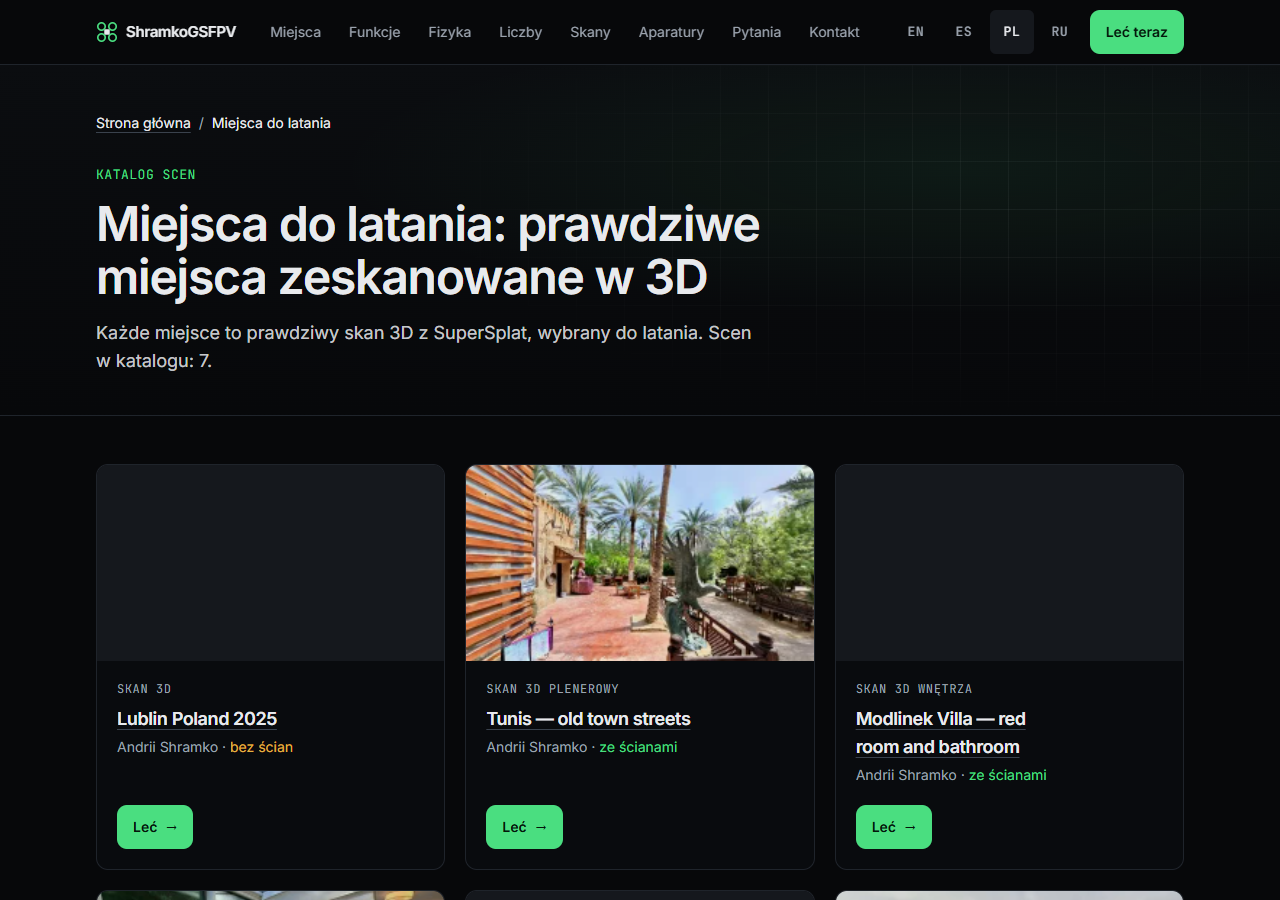
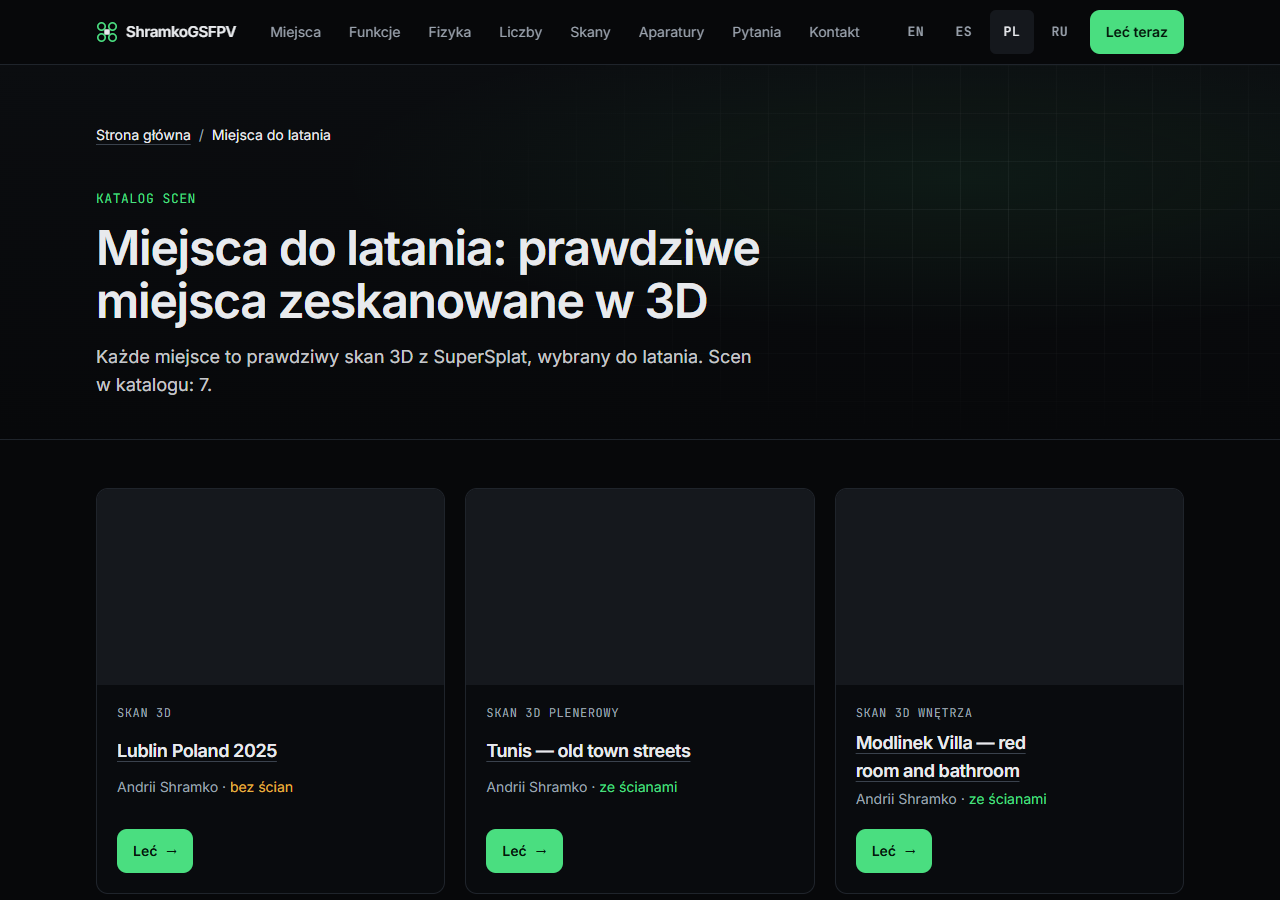
evidence: lane A bench after the review fixes (30/30, 5 controls; the admin's change list and Refresh rows read in words); site verify 149/149

diff --git a/docs/wip/v07-a.md b/docs/wip/v07-a.md
@@ -153,12 +153,16 @@ Browser bench: `tools/bench/src/accept-v07-catalogue.ts` (evidence `evidence/202
       client address from the real-IP module (`apps/api/tests/test_nginx_routes.py` routes URLs with
       nginx's selection rule over the real config, controls: the config without the redirect, the first
       cut's wind block; the CI smoke checks both 301s against a real nginx) (step 3)
-- [~] scene pages: a scene without an author reads cleanly (no "by -", no dangling separators):
+- [x] scene pages: a scene without an author reads cleanly (no "by -", no dangling separators):
       `credited()` (author, else the SuperSplat user, else ""), templates wrap the author fragments in
-      `[[?authorName]]`/`[[?quoteBy]]`, `quoteSourceAlone` in 4 languages (step 4, code committed; the
-      built-template test failed on the old build as its control, passes after the rebuild in step 6)
+      `[[?authorName]]`/`[[?quoteBy]]`, `quoteSourceAlone` in 4 languages (step 4; the built-template
+      test failed on the old build as its control and passes on the rebuilt one)
 - [x] site: the build uses the committed snapshot (`catalog:refresh` is the deliberate step; test: the
       prebuild asks no server, `--refresh` does as the control); verify.mjs expects exactly the 16
       sitemap URLs and clicks the snapshot's first card (step 5)
-- [ ] site rebuilt, verify.mjs run once in Chrome (GPU lock), the built-template tests of step 4
+- [x] site rebuilt, verify.mjs run in Chrome under the GPU lock: the first run failed one check
+      (catalogue card titles 21 px tall at 375 px, a real defect of this lane), fixed with 44 px targets
+      (also the scene pages' breadcrumbs and index cards); second run 149/149
+- [x] lane bench accept-v07-catalogue again: 30/30 checks, 5 of them controls; the change list reads
+      "Changed: Modlinek Villa ... (Featured)", Refresh rows "Licence: (empty) -> CC BY 4.0" (evidence)
 - [ ] gates and the lane bench again
